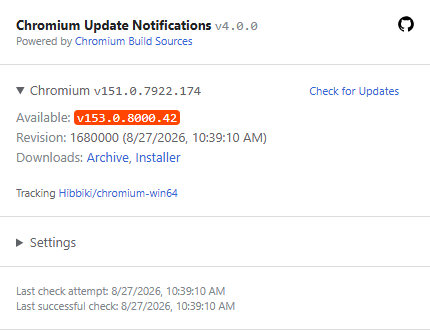
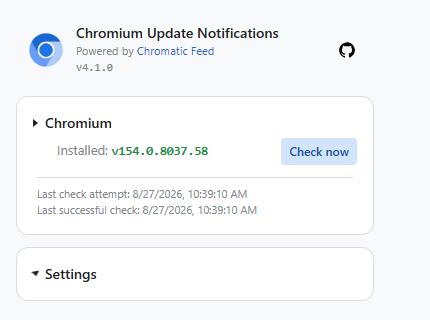
Prepare 4.1.0 release

diff --git a/test/core.test.js b/test/core.test.js
@@ -66,12 +66,12 @@ test('manifest pins the final extension id', async () => {
   assert.equal(manifest.version_name, '4.1.0')
 })
 
-test('gupdate stays on the currently published release', async () => {
+test('gupdate publishes the current release', async () => {
   const text = await readFile(new URL('../gupdate.xml', import.meta.url), 'utf8')
   const [{ app, updatecheck }] = parseUpdateManifest(text)
 
   assert.equal(app.appid, 'agmndnjhilhcplobmmcbnjokdbcahlce')
-  assert.equal(updatecheck.version, '4.0.0')
+  assert.equal(updatecheck.version, '4.1.0')
   assert.equal(
     updatecheck.codebase,
     'https://github.com/Bone06/chromium-notifier/releases/latest/download/chromium-notifier.crx'

diff --git a/README.md b/README.md
@@ -8,11 +8,11 @@ version—or optionally a newer snapshot revision—is available.
 It can also check installed extensions for updates and provide basic extension
 management where Chromium permits it.
 
-![Chromium Update Notifications 4.0.0 popup](img/screenshot.png)
+![Chromium Update Notifications 4.1.0 popup](img/screenshot.png)
 
 ## Current development status
 
-- The current stable release is Manifest V3 version 4.0.0.
+- The current stable release is Manifest V3 version 4.1.0.
 - Build data comes from the separate [Chromatic Feed](https://github.com/Bone06/chromatic-feed)
   aggregator, not
   directly from Woolyss or individual build repositories.
@@ -21,7 +21,7 @@ management where Chromium permits it.
 - The extension uses the signed production HTTPS feed and revalidates it with
   ETag / `If-None-Match`; unchanged `304` responses retain the previously
   verified local cache.
-- The update manifest targets the 4.0.0 CRX asset from this repository's
+- The update manifest targets the 4.1.0 CRX asset from this repository's
   [latest GitHub release](https://github.com/Bone06/chromium-notifier/releases/latest).
 
 ## Features
